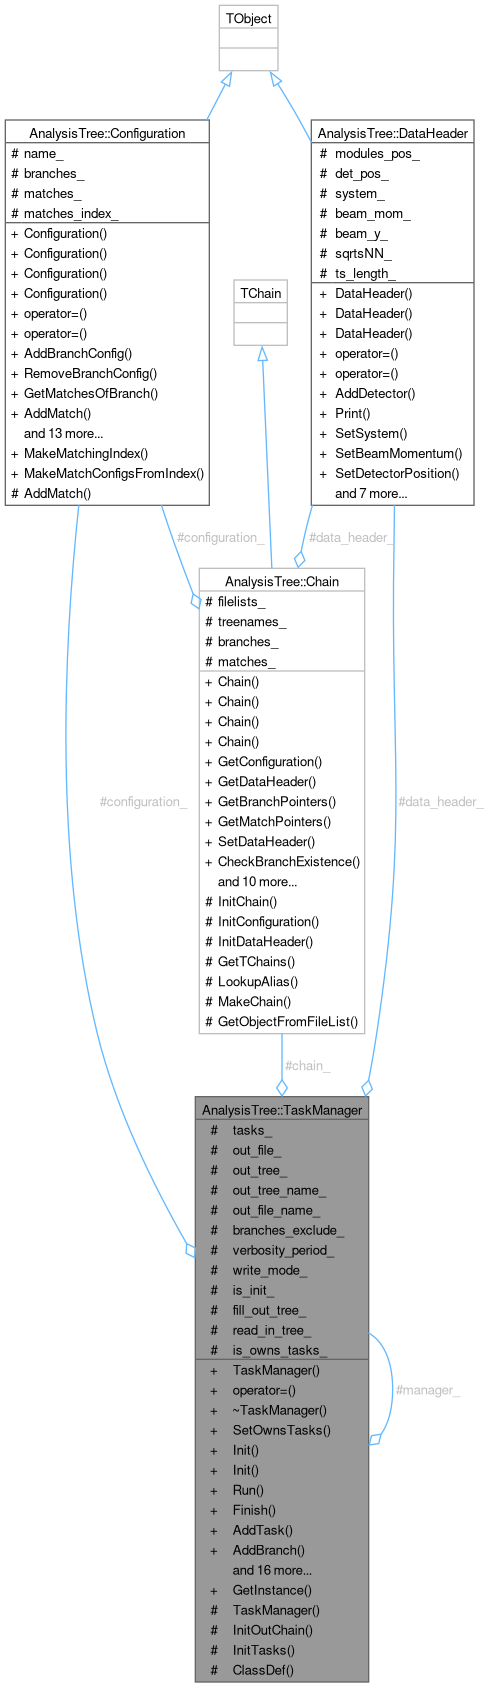
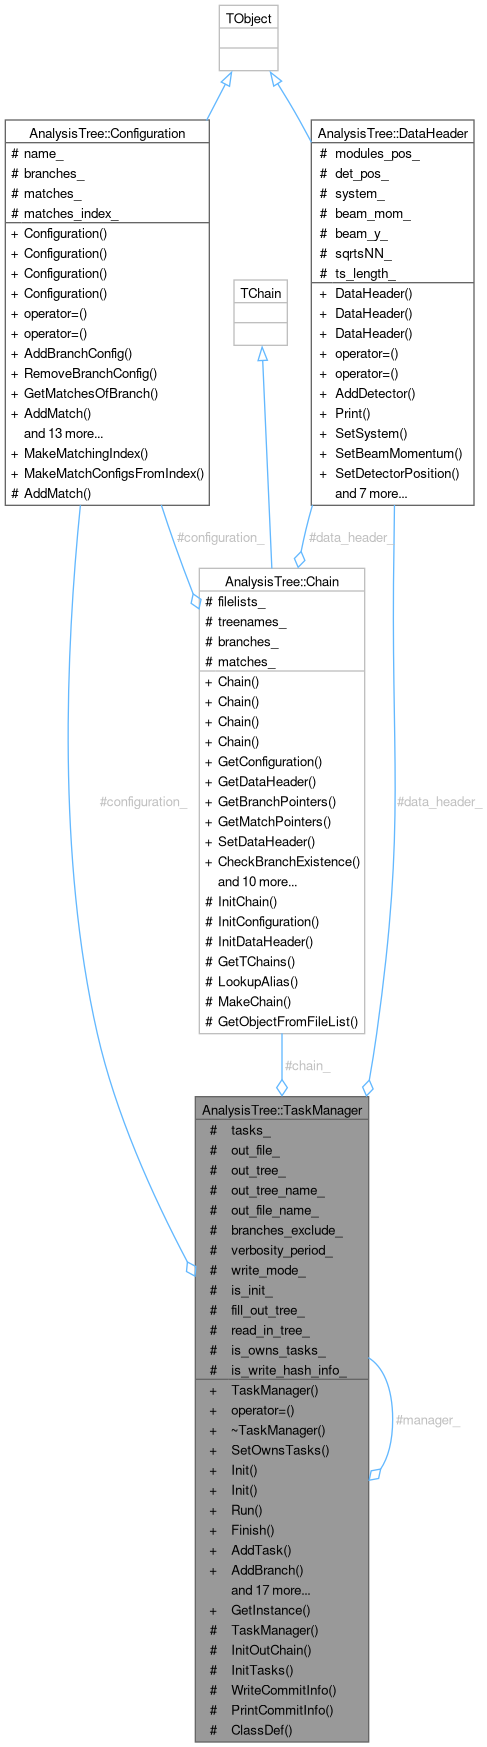
deploy: 76ee0b4aa726cfa2dfc453a1ede95081cfa58e4f

diff --git a/d5/d18/TaskManager_8hpp_source.html b/d5/d18/TaskManager_8hpp_source.html
@@ -241,45 +241,49 @@ $(function(){ initResizable(false); });
 <div class="line"><a id="l00166" name="l00166"></a><span class="lineno">  166</span>  <span class="keywordtype">void</span> SetWriteMode(eBranchWriteMode mode) { write_mode_ = mode; }</div>
 <div class="line"><a id="l00167" name="l00167"></a><span class="lineno">  167</span>  <span class="keywordtype">void</span> SetBranchesExclude(std::vector&lt;std::string&gt; brex) { branches_exclude_ = std::move(brex); }</div>
 <div class="line"><a id="l00168" name="l00168"></a><span class="lineno">  168</span>  <span class="keywordtype">void</span> SetVerbosityPeriod(<span class="keywordtype">int</span> value) { verbosity_period_ = value; }</div>
-<div class="line"><a id="l00169" name="l00169"></a><span class="lineno">  169</span> </div>
-<div class="line"><a id="l00170" name="l00170"></a><span class="lineno">  170</span>  <span class="keywordtype">void</span> ClearTasks() { tasks_.clear(); }</div>
-<div class="line"><a id="l00171" name="l00171"></a><span class="lineno">  171</span> </div>
-<div class="line"><a id="l00172" name="l00172"></a><span class="lineno">  172</span> <span class="keyword">protected</span>:</div>
-<div class="line"><a id="l00173" name="l00173"></a><span class="lineno">  173</span>  TaskManager() = <span class="keywordflow">default</span>;</div>
-<div class="line"><a id="l00174" name="l00174"></a><span class="lineno">  174</span>  <span class="keyword">static</span> TaskManager* manager_;</div>
-<div class="line"><a id="l00175" name="l00175"></a><span class="lineno">  175</span> </div>
-<div class="line"><a id="l00176" name="l00176"></a><span class="lineno">  176</span>  <span class="keywordtype">void</span> InitOutChain();</div>
-<div class="line"><a id="l00177" name="l00177"></a><span class="lineno">  177</span>  <span class="keywordtype">void</span> InitTasks();</div>
-<div class="line"><a id="l00178" name="l00178"></a><span class="lineno">  178</span> </div>
-<div class="line"><a id="l00179" name="l00179"></a><span class="lineno">  179</span>  <span class="comment">// input data members</span></div>
-<div class="line"><a id="l00180" name="l00180"></a><span class="lineno">  180</span>  Chain* chain_{<span class="keyword">nullptr</span>};</div>
-<div class="line"><a id="l00181" name="l00181"></a><span class="lineno">  181</span>  std::vector&lt;Task*&gt; tasks_{};</div>
-<div class="line"><a id="l00182" name="l00182"></a><span class="lineno">  182</span> </div>
-<div class="line"><a id="l00183" name="l00183"></a><span class="lineno">  183</span>  <span class="comment">// output data members</span></div>
-<div class="line"><a id="l00184" name="l00184"></a><span class="lineno">  184</span>  TFile* out_file_{<span class="keyword">nullptr</span>};</div>
-<div class="line"><a id="l00185" name="l00185"></a><span class="lineno">  185</span>  TTree* out_tree_{<span class="keyword">nullptr</span>};</div>
-<div class="line"><a id="l00186" name="l00186"></a><span class="lineno"><a class="line" href="../../d2/d83/classAnalysisTree_1_1TaskManager.html#a8b1f2c56f901b28b1000ede1cd687cb6">  186</a></span>  <a class="code hl_class" href="../../d8/dee/classAnalysisTree_1_1Configuration.html">Configuration</a>* <a class="code hl_variable" href="../../d2/d83/classAnalysisTree_1_1TaskManager.html#a8b1f2c56f901b28b1000ede1cd687cb6">configuration_</a>{<span class="keyword">nullptr</span>};</div>
-<div class="line"><a id="l00187" name="l00187"></a><span class="lineno"><a class="line" href="../../d2/d83/classAnalysisTree_1_1TaskManager.html#ab7540a6d2044b9ed1a58ddce8c5387d5">  187</a></span>  <a class="code hl_class" href="../../d8/d77/classAnalysisTree_1_1DataHeader.html">DataHeader</a>* <a class="code hl_variable" href="../../d2/d83/classAnalysisTree_1_1TaskManager.html#ab7540a6d2044b9ed1a58ddce8c5387d5">data_header_</a>{<span class="keyword">nullptr</span>};     </div>
-<div class="line"><a id="l00188" name="l00188"></a><span class="lineno">  188</span>  std::string out_tree_name_{<span class="stringliteral">&quot;aTree&quot;</span>};</div>
-<div class="line"><a id="l00189" name="l00189"></a><span class="lineno">  189</span>  std::string out_file_name_{<span class="stringliteral">&quot;analysis_tree.root&quot;</span>};</div>
-<div class="line"><a id="l00190" name="l00190"></a><span class="lineno">  190</span>  std::vector&lt;std::string&gt; branches_exclude_{};</div>
-<div class="line"><a id="l00191" name="l00191"></a><span class="lineno">  191</span> </div>
-<div class="line"><a id="l00192" name="l00192"></a><span class="lineno">  192</span>  <span class="keywordtype">int</span> verbosity_period_{-1};</div>
-<div class="line"><a id="l00193" name="l00193"></a><span class="lineno">  193</span> </div>
-<div class="line"><a id="l00194" name="l00194"></a><span class="lineno">  194</span>  <span class="comment">// configuration parameters</span></div>
-<div class="line"><a id="l00195" name="l00195"></a><span class="lineno">  195</span>  eBranchWriteMode write_mode_{eBranchWriteMode::kCreateNewTree};</div>
-<div class="line"><a id="l00196" name="l00196"></a><span class="lineno">  196</span>  <span class="keywordtype">bool</span> is_init_{<span class="keyword">false</span>};</div>
-<div class="line"><a id="l00197" name="l00197"></a><span class="lineno">  197</span>  <span class="keywordtype">bool</span> fill_out_tree_{<span class="keyword">false</span>};</div>
-<div class="line"><a id="l00198" name="l00198"></a><span class="lineno">  198</span>  <span class="keywordtype">bool</span> read_in_tree_{<span class="keyword">false</span>};</div>
-<div class="line"><a id="l00199" name="l00199"></a><span class="lineno">  199</span>  <span class="keywordtype">bool</span> is_owns_tasks_{<span class="keyword">true</span>};</div>
-<div class="line"><a id="l00200" name="l00200"></a><span class="lineno">  200</span> </div>
-<div class="line"><a id="l00201" name="l00201"></a><span class="lineno">  201</span>  ClassDef(TaskManager, 0);</div>
-<div class="line"><a id="l00202" name="l00202"></a><span class="lineno">  202</span>};</div>
+<div class="line"><a id="l00169" name="l00169"></a><span class="lineno">  169</span>  <span class="keywordtype">void</span> SetIsWriteHashInfo(<span class="keywordtype">bool</span> is=<span class="keyword">true</span>) { is_write_hash_info_ = is; }</div>
+<div class="line"><a id="l00170" name="l00170"></a><span class="lineno">  170</span> </div>
+<div class="line"><a id="l00171" name="l00171"></a><span class="lineno">  171</span>  <span class="keywordtype">void</span> ClearTasks() { tasks_.clear(); }</div>
+<div class="line"><a id="l00172" name="l00172"></a><span class="lineno">  172</span> </div>
+<div class="line"><a id="l00173" name="l00173"></a><span class="lineno">  173</span> <span class="keyword">protected</span>:</div>
+<div class="line"><a id="l00174" name="l00174"></a><span class="lineno">  174</span>  TaskManager() = <span class="keywordflow">default</span>;</div>
+<div class="line"><a id="l00175" name="l00175"></a><span class="lineno">  175</span>  <span class="keyword">static</span> TaskManager* manager_;</div>
+<div class="line"><a id="l00176" name="l00176"></a><span class="lineno">  176</span> </div>
+<div class="line"><a id="l00177" name="l00177"></a><span class="lineno">  177</span>  <span class="keywordtype">void</span> InitOutChain();</div>
+<div class="line"><a id="l00178" name="l00178"></a><span class="lineno">  178</span>  <span class="keywordtype">void</span> InitTasks();</div>
+<div class="line"><a id="l00179" name="l00179"></a><span class="lineno">  179</span>  <span class="keywordtype">void</span> WriteCommitInfo();</div>
+<div class="line"><a id="l00180" name="l00180"></a><span class="lineno">  180</span>  <span class="keywordtype">void</span> PrintCommitInfo();</div>
+<div class="line"><a id="l00181" name="l00181"></a><span class="lineno">  181</span> </div>
+<div class="line"><a id="l00182" name="l00182"></a><span class="lineno">  182</span>  <span class="comment">// input data members</span></div>
+<div class="line"><a id="l00183" name="l00183"></a><span class="lineno">  183</span>  Chain* chain_{<span class="keyword">nullptr</span>};</div>
+<div class="line"><a id="l00184" name="l00184"></a><span class="lineno">  184</span>  std::vector&lt;Task*&gt; tasks_{};</div>
+<div class="line"><a id="l00185" name="l00185"></a><span class="lineno">  185</span> </div>
+<div class="line"><a id="l00186" name="l00186"></a><span class="lineno">  186</span>  <span class="comment">// output data members</span></div>
+<div class="line"><a id="l00187" name="l00187"></a><span class="lineno">  187</span>  TFile* out_file_{<span class="keyword">nullptr</span>};</div>
+<div class="line"><a id="l00188" name="l00188"></a><span class="lineno">  188</span>  TTree* out_tree_{<span class="keyword">nullptr</span>};</div>
+<div class="line"><a id="l00189" name="l00189"></a><span class="lineno"><a class="line" href="../../d2/d83/classAnalysisTree_1_1TaskManager.html#a8b1f2c56f901b28b1000ede1cd687cb6">  189</a></span>  <a class="code hl_class" href="../../d8/dee/classAnalysisTree_1_1Configuration.html">Configuration</a>* <a class="code hl_variable" href="../../d2/d83/classAnalysisTree_1_1TaskManager.html#a8b1f2c56f901b28b1000ede1cd687cb6">configuration_</a>{<span class="keyword">nullptr</span>};</div>
+<div class="line"><a id="l00190" name="l00190"></a><span class="lineno"><a class="line" href="../../d2/d83/classAnalysisTree_1_1TaskManager.html#ab7540a6d2044b9ed1a58ddce8c5387d5">  190</a></span>  <a class="code hl_class" href="../../d8/d77/classAnalysisTree_1_1DataHeader.html">DataHeader</a>* <a class="code hl_variable" href="../../d2/d83/classAnalysisTree_1_1TaskManager.html#ab7540a6d2044b9ed1a58ddce8c5387d5">data_header_</a>{<span class="keyword">nullptr</span>};     </div>
+<div class="line"><a id="l00191" name="l00191"></a><span class="lineno">  191</span>  std::string out_tree_name_{<span class="stringliteral">&quot;aTree&quot;</span>};</div>
+<div class="line"><a id="l00192" name="l00192"></a><span class="lineno">  192</span>  std::string out_file_name_{<span class="stringliteral">&quot;analysis_tree.root&quot;</span>};</div>
+<div class="line"><a id="l00193" name="l00193"></a><span class="lineno">  193</span>  std::vector&lt;std::string&gt; branches_exclude_{};</div>
+<div class="line"><a id="l00194" name="l00194"></a><span class="lineno">  194</span> </div>
+<div class="line"><a id="l00195" name="l00195"></a><span class="lineno">  195</span>  <span class="keywordtype">int</span> verbosity_period_{-1};</div>
+<div class="line"><a id="l00196" name="l00196"></a><span class="lineno">  196</span> </div>
+<div class="line"><a id="l00197" name="l00197"></a><span class="lineno">  197</span>  <span class="comment">// configuration parameters</span></div>
+<div class="line"><a id="l00198" name="l00198"></a><span class="lineno">  198</span>  eBranchWriteMode write_mode_{eBranchWriteMode::kCreateNewTree};</div>
+<div class="line"><a id="l00199" name="l00199"></a><span class="lineno">  199</span>  <span class="keywordtype">bool</span> is_init_{<span class="keyword">false</span>};</div>
+<div class="line"><a id="l00200" name="l00200"></a><span class="lineno">  200</span>  <span class="keywordtype">bool</span> fill_out_tree_{<span class="keyword">false</span>};</div>
+<div class="line"><a id="l00201" name="l00201"></a><span class="lineno">  201</span>  <span class="keywordtype">bool</span> read_in_tree_{<span class="keyword">false</span>};</div>
+<div class="line"><a id="l00202" name="l00202"></a><span class="lineno">  202</span>  <span class="keywordtype">bool</span> is_owns_tasks_{<span class="keyword">true</span>};</div>
+<div class="line"><a id="l00203" name="l00203"></a><span class="lineno">  203</span>  <span class="keywordtype">bool</span> is_write_hash_info_{<span class="keyword">true</span>};</div>
+<div class="line"><a id="l00204" name="l00204"></a><span class="lineno">  204</span> </div>
+<div class="line"><a id="l00205" name="l00205"></a><span class="lineno">  205</span>  ClassDef(TaskManager, 0);</div>
+<div class="line"><a id="l00206" name="l00206"></a><span class="lineno">  206</span>};</div>
 </div>
-<div class="line"><a id="l00203" name="l00203"></a><span class="lineno">  203</span> </div>
-<div class="line"><a id="l00204" name="l00204"></a><span class="lineno">  204</span>};<span class="comment">// namespace AnalysisTree</span></div>
-<div class="line"><a id="l00205" name="l00205"></a><span class="lineno">  205</span> </div>
-<div class="line"><a id="l00206" name="l00206"></a><span class="lineno">  206</span><span class="preprocessor">#endif</span><span class="comment">//ANALYSISTREE_INFRA_TASKMANANGERNEW_HPP_</span></div>
+<div class="line"><a id="l00207" name="l00207"></a><span class="lineno">  207</span> </div>
+<div class="line"><a id="l00208" name="l00208"></a><span class="lineno">  208</span>};<span class="comment">// namespace AnalysisTree</span></div>
+<div class="line"><a id="l00209" name="l00209"></a><span class="lineno">  209</span> </div>
+<div class="line"><a id="l00210" name="l00210"></a><span class="lineno">  210</span><span class="preprocessor">#endif</span><span class="comment">//ANALYSISTREE_INFRA_TASKMANANGERNEW_HPP_</span></div>
 <div class="ttc" id="aclassAnalysisTree_1_1BranchConfig_html"><div class="ttname"><a href="../../d8/d4c/classAnalysisTree_1_1BranchConfig.html">AnalysisTree::BranchConfig</a></div><div class="ttdoc">A class to store configuration of the Container.</div><div class="ttdef"><b>Definition</b> BranchConfig.hpp:108</div></div>
 <div class="ttc" id="aclassAnalysisTree_1_1Branch_html"><div class="ttname"><a href="../../d2/d4d/classAnalysisTree_1_1Branch.html">AnalysisTree::Branch</a></div><div class="ttdef"><b>Definition</b> Branch.hpp:23</div></div>
 <div class="ttc" id="aclassAnalysisTree_1_1Configuration_html"><div class="ttname"><a href="../../d8/dee/classAnalysisTree_1_1Configuration.html">AnalysisTree::Configuration</a></div><div class="ttdoc">A class to store configuration of the whole AnalysisTree object.</div><div class="ttdef"><b>Definition</b> Configuration.hpp:58</div></div>
@@ -287,12 +291,12 @@ $(function(){ initResizable(false); });
 <div class="ttc" id="aclassAnalysisTree_1_1Detector_html"><div class="ttname"><a href="../../d4/da7/classAnalysisTree_1_1Detector.html">AnalysisTree::Detector</a></div><div class="ttdef"><b>Definition</b> Detector.hpp:21</div></div>
 <div class="ttc" id="aclassAnalysisTree_1_1Matching_html"><div class="ttname"><a href="../../d8/d42/classAnalysisTree_1_1Matching.html">AnalysisTree::Matching</a></div><div class="ttdef"><b>Definition</b> Matching.hpp:17</div></div>
 <div class="ttc" id="aclassAnalysisTree_1_1TaskManager_html"><div class="ttname"><a href="../../d2/d83/classAnalysisTree_1_1TaskManager.html">AnalysisTree::TaskManager</a></div><div class="ttdef"><b>Definition</b> TaskManager.hpp:32</div></div>
-<div class="ttc" id="aclassAnalysisTree_1_1TaskManager_html_a11a064f466596832a85d7a0fcf95417f"><div class="ttname"><a href="../../d2/d83/classAnalysisTree_1_1TaskManager.html#a11a064f466596832a85d7a0fcf95417f">AnalysisTree::TaskManager::Init</a></div><div class="ttdeci">virtual void Init()</div><div class="ttdef"><b>Definition</b> TaskManager.cpp:50</div></div>
+<div class="ttc" id="aclassAnalysisTree_1_1TaskManager_html_a11a064f466596832a85d7a0fcf95417f"><div class="ttname"><a href="../../d2/d83/classAnalysisTree_1_1TaskManager.html#a11a064f466596832a85d7a0fcf95417f">AnalysisTree::TaskManager::Init</a></div><div class="ttdeci">virtual void Init()</div><div class="ttdef"><b>Definition</b> TaskManager.cpp:52</div></div>
 <div class="ttc" id="aclassAnalysisTree_1_1TaskManager_html_a3884e7be7b33f2efe8403a55fd08e617"><div class="ttname"><a href="../../d2/d83/classAnalysisTree_1_1TaskManager.html#a3884e7be7b33f2efe8403a55fd08e617">AnalysisTree::TaskManager::SetOwnsTasks</a></div><div class="ttdeci">void SetOwnsTasks(bool owns_flag=true)</div><div class="ttdoc">If TaskManager owns its tasks, they will be deleted on TaskManager' destruction.</div><div class="ttdef"><b>Definition</b> TaskManager.hpp:45</div></div>
 <div class="ttc" id="aclassAnalysisTree_1_1TaskManager_html_a58dac689de25cdb7b5757ae629677507"><div class="ttname"><a href="../../d2/d83/classAnalysisTree_1_1TaskManager.html#a58dac689de25cdb7b5757ae629677507">AnalysisTree::TaskManager::AddBranch</a></div><div class="ttdeci">void AddBranch(BranchPtr *&amp;ptr, const BranchConfig &amp;config)</div><div class="ttdef"><b>Definition</b> TaskManager.hpp:69</div></div>
-<div class="ttc" id="aclassAnalysisTree_1_1TaskManager_html_a8b1f2c56f901b28b1000ede1cd687cb6"><div class="ttname"><a href="../../d2/d83/classAnalysisTree_1_1TaskManager.html#a8b1f2c56f901b28b1000ede1cd687cb6">AnalysisTree::TaskManager::configuration_</a></div><div class="ttdeci">Configuration * configuration_</div><div class="ttdoc">output</div><div class="ttdef"><b>Definition</b> TaskManager.hpp:186</div></div>
+<div class="ttc" id="aclassAnalysisTree_1_1TaskManager_html_a8b1f2c56f901b28b1000ede1cd687cb6"><div class="ttname"><a href="../../d2/d83/classAnalysisTree_1_1TaskManager.html#a8b1f2c56f901b28b1000ede1cd687cb6">AnalysisTree::TaskManager::configuration_</a></div><div class="ttdeci">Configuration * configuration_</div><div class="ttdoc">output</div><div class="ttdef"><b>Definition</b> TaskManager.hpp:189</div></div>
 <div class="ttc" id="aclassAnalysisTree_1_1TaskManager_html_aa4ab4ad6b152b4d3c02337fe1b00801e"><div class="ttname"><a href="../../d2/d83/classAnalysisTree_1_1TaskManager.html#aa4ab4ad6b152b4d3c02337fe1b00801e">AnalysisTree::TaskManager::AddMatching</a></div><div class="ttdeci">void AddMatching(const std::string &amp;br1, const std::string &amp;br2, Matching *&amp;match)</div><div class="ttdef"><b>Definition</b> TaskManager.hpp:119</div></div>
-<div class="ttc" id="aclassAnalysisTree_1_1TaskManager_html_ab7540a6d2044b9ed1a58ddce8c5387d5"><div class="ttname"><a href="../../d2/d83/classAnalysisTree_1_1TaskManager.html#ab7540a6d2044b9ed1a58ddce8c5387d5">AnalysisTree::TaskManager::data_header_</a></div><div class="ttdeci">DataHeader * data_header_</div><div class="ttdoc">output</div><div class="ttdef"><b>Definition</b> TaskManager.hpp:187</div></div>
+<div class="ttc" id="aclassAnalysisTree_1_1TaskManager_html_ab7540a6d2044b9ed1a58ddce8c5387d5"><div class="ttname"><a href="../../d2/d83/classAnalysisTree_1_1TaskManager.html#ab7540a6d2044b9ed1a58ddce8c5387d5">AnalysisTree::TaskManager::data_header_</a></div><div class="ttdeci">DataHeader * data_header_</div><div class="ttdoc">output</div><div class="ttdef"><b>Definition</b> TaskManager.hpp:190</div></div>
 <div class="ttc" id="aclassAnalysisTree_1_1TaskManager_html_ab855b806c375c592324e23fe756957d1"><div class="ttname"><a href="../../d2/d83/classAnalysisTree_1_1TaskManager.html#ab855b806c375c592324e23fe756957d1">AnalysisTree::TaskManager::GetInstance</a></div><div class="ttdeci">static TaskManager * GetInstance()</div><div class="ttdef"><b>Definition</b> TaskManager.cpp:12</div></div>
 <div class="ttc" id="aclassAnalysisTree_1_1Task_html"><div class="ttname"><a href="../../d8/dcf/classAnalysisTree_1_1Task.html">AnalysisTree::Task</a></div><div class="ttdef"><b>Definition</b> Task.hpp:25</div></div>
 <div class="ttc" id="anamespaceAnalysisTree_html"><div class="ttname"><a href="../../d9/d26/namespaceAnalysisTree.html">AnalysisTree</a></div><div class="ttdoc">Cuts keep list of SimpleCuts. Logical AND is applied for all SimpleCut in the Cuts object.</div><div class="ttdef"><b>Definition</b> BranchConfig.cpp:10</div></div>

diff --git a/dc/dd7/classAnalysisTree_1_1TaskManager-members.html b/dc/dd7/classAnalysisTree_1_1TaskManager-members.html
@@ -120,26 +120,30 @@ $(function(){ initResizable(false); });
   <tr bgcolor="#f0f0f0" class="odd"><td class="entry"><b>InitTasks</b>() (defined in <a class="el" href="../../d2/d83/classAnalysisTree_1_1TaskManager.html">AnalysisTree::TaskManager</a>)</td><td class="entry"><a class="el" href="../../d2/d83/classAnalysisTree_1_1TaskManager.html">AnalysisTree::TaskManager</a></td><td class="entry"><span class="mlabel">protected</span></td></tr>
   <tr bgcolor="#f0f0f0" class="even"><td class="entry"><b>is_init_</b> (defined in <a class="el" href="../../d2/d83/classAnalysisTree_1_1TaskManager.html">AnalysisTree::TaskManager</a>)</td><td class="entry"><a class="el" href="../../d2/d83/classAnalysisTree_1_1TaskManager.html">AnalysisTree::TaskManager</a></td><td class="entry"><span class="mlabel">protected</span></td></tr>
   <tr bgcolor="#f0f0f0" class="odd"><td class="entry"><b>is_owns_tasks_</b> (defined in <a class="el" href="../../d2/d83/classAnalysisTree_1_1TaskManager.html">AnalysisTree::TaskManager</a>)</td><td class="entry"><a class="el" href="../../d2/d83/classAnalysisTree_1_1TaskManager.html">AnalysisTree::TaskManager</a></td><td class="entry"><span class="mlabel">protected</span></td></tr>
-  <tr bgcolor="#f0f0f0" class="even"><td class="entry"><b>manager_</b> (defined in <a class="el" href="../../d2/d83/classAnalysisTree_1_1TaskManager.html">AnalysisTree::TaskManager</a>)</td><td class="entry"><a class="el" href="../../d2/d83/classAnalysisTree_1_1TaskManager.html">AnalysisTree::TaskManager</a></td><td class="entry"><span class="mlabel">protected</span><span class="mlabel">static</span></td></tr>
-  <tr bgcolor="#f0f0f0" class="odd"><td class="entry"><b>operator=</b>(const TaskManager &amp;)=delete (defined in <a class="el" href="../../d2/d83/classAnalysisTree_1_1TaskManager.html">AnalysisTree::TaskManager</a>)</td><td class="entry"><a class="el" href="../../d2/d83/classAnalysisTree_1_1TaskManager.html">AnalysisTree::TaskManager</a></td><td class="entry"></td></tr>
-  <tr bgcolor="#f0f0f0" class="even"><td class="entry"><b>out_file_</b> (defined in <a class="el" href="../../d2/d83/classAnalysisTree_1_1TaskManager.html">AnalysisTree::TaskManager</a>)</td><td class="entry"><a class="el" href="../../d2/d83/classAnalysisTree_1_1TaskManager.html">AnalysisTree::TaskManager</a></td><td class="entry"><span class="mlabel">protected</span></td></tr>
-  <tr bgcolor="#f0f0f0" class="odd"><td class="entry"><b>out_file_name_</b> (defined in <a class="el" href="../../d2/d83/classAnalysisTree_1_1TaskManager.html">AnalysisTree::TaskManager</a>)</td><td class="entry"><a class="el" href="../../d2/d83/classAnalysisTree_1_1TaskManager.html">AnalysisTree::TaskManager</a></td><td class="entry"><span class="mlabel">protected</span></td></tr>
-  <tr bgcolor="#f0f0f0" class="even"><td class="entry"><b>out_tree_</b> (defined in <a class="el" href="../../d2/d83/classAnalysisTree_1_1TaskManager.html">AnalysisTree::TaskManager</a>)</td><td class="entry"><a class="el" href="../../d2/d83/classAnalysisTree_1_1TaskManager.html">AnalysisTree::TaskManager</a></td><td class="entry"><span class="mlabel">protected</span></td></tr>
-  <tr bgcolor="#f0f0f0" class="odd"><td class="entry"><b>out_tree_name_</b> (defined in <a class="el" href="../../d2/d83/classAnalysisTree_1_1TaskManager.html">AnalysisTree::TaskManager</a>)</td><td class="entry"><a class="el" href="../../d2/d83/classAnalysisTree_1_1TaskManager.html">AnalysisTree::TaskManager</a></td><td class="entry"><span class="mlabel">protected</span></td></tr>
+  <tr bgcolor="#f0f0f0" class="even"><td class="entry"><b>is_write_hash_info_</b> (defined in <a class="el" href="../../d2/d83/classAnalysisTree_1_1TaskManager.html">AnalysisTree::TaskManager</a>)</td><td class="entry"><a class="el" href="../../d2/d83/classAnalysisTree_1_1TaskManager.html">AnalysisTree::TaskManager</a></td><td class="entry"><span class="mlabel">protected</span></td></tr>
+  <tr bgcolor="#f0f0f0" class="odd"><td class="entry"><b>manager_</b> (defined in <a class="el" href="../../d2/d83/classAnalysisTree_1_1TaskManager.html">AnalysisTree::TaskManager</a>)</td><td class="entry"><a class="el" href="../../d2/d83/classAnalysisTree_1_1TaskManager.html">AnalysisTree::TaskManager</a></td><td class="entry"><span class="mlabel">protected</span><span class="mlabel">static</span></td></tr>
+  <tr bgcolor="#f0f0f0" class="even"><td class="entry"><b>operator=</b>(const TaskManager &amp;)=delete (defined in <a class="el" href="../../d2/d83/classAnalysisTree_1_1TaskManager.html">AnalysisTree::TaskManager</a>)</td><td class="entry"><a class="el" href="../../d2/d83/classAnalysisTree_1_1TaskManager.html">AnalysisTree::TaskManager</a></td><td class="entry"></td></tr>
+  <tr bgcolor="#f0f0f0" class="odd"><td class="entry"><b>out_file_</b> (defined in <a class="el" href="../../d2/d83/classAnalysisTree_1_1TaskManager.html">AnalysisTree::TaskManager</a>)</td><td class="entry"><a class="el" href="../../d2/d83/classAnalysisTree_1_1TaskManager.html">AnalysisTree::TaskManager</a></td><td class="entry"><span class="mlabel">protected</span></td></tr>
+  <tr bgcolor="#f0f0f0" class="even"><td class="entry"><b>out_file_name_</b> (defined in <a class="el" href="../../d2/d83/classAnalysisTree_1_1TaskManager.html">AnalysisTree::TaskManager</a>)</td><td class="entry"><a class="el" href="../../d2/d83/classAnalysisTree_1_1TaskManager.html">AnalysisTree::TaskManager</a></td><td class="entry"><span class="mlabel">protected</span></td></tr>
+  <tr bgcolor="#f0f0f0" class="odd"><td class="entry"><b>out_tree_</b> (defined in <a class="el" href="../../d2/d83/classAnalysisTree_1_1TaskManager.html">AnalysisTree::TaskManager</a>)</td><td class="entry"><a class="el" href="../../d2/d83/classAnalysisTree_1_1TaskManager.html">AnalysisTree::TaskManager</a></td><td class="entry"><span class="mlabel">protected</span></td></tr>
+  <tr bgcolor="#f0f0f0" class="even"><td class="entry"><b>out_tree_name_</b> (defined in <a class="el" href="../../d2/d83/classAnalysisTree_1_1TaskManager.html">AnalysisTree::TaskManager</a>)</td><td class="entry"><a class="el" href="../../d2/d83/classAnalysisTree_1_1TaskManager.html">AnalysisTree::TaskManager</a></td><td class="entry"><span class="mlabel">protected</span></td></tr>
+  <tr bgcolor="#f0f0f0" class="odd"><td class="entry"><b>PrintCommitInfo</b>() (defined in <a class="el" href="../../d2/d83/classAnalysisTree_1_1TaskManager.html">AnalysisTree::TaskManager</a>)</td><td class="entry"><a class="el" href="../../d2/d83/classAnalysisTree_1_1TaskManager.html">AnalysisTree::TaskManager</a></td><td class="entry"><span class="mlabel">protected</span></td></tr>
   <tr bgcolor="#f0f0f0" class="even"><td class="entry"><b>read_in_tree_</b> (defined in <a class="el" href="../../d2/d83/classAnalysisTree_1_1TaskManager.html">AnalysisTree::TaskManager</a>)</td><td class="entry"><a class="el" href="../../d2/d83/classAnalysisTree_1_1TaskManager.html">AnalysisTree::TaskManager</a></td><td class="entry"><span class="mlabel">protected</span></td></tr>
   <tr bgcolor="#f0f0f0" class="odd"><td class="entry"><b>Run</b>(long long nEvents=-1) (defined in <a class="el" href="../../d2/d83/classAnalysisTree_1_1TaskManager.html">AnalysisTree::TaskManager</a>)</td><td class="entry"><a class="el" href="../../d2/d83/classAnalysisTree_1_1TaskManager.html">AnalysisTree::TaskManager</a></td><td class="entry"><span class="mlabel">virtual</span></td></tr>
   <tr bgcolor="#f0f0f0" class="even"><td class="entry"><b>SetBranchesExclude</b>(std::vector&lt; std::string &gt; brex) (defined in <a class="el" href="../../d2/d83/classAnalysisTree_1_1TaskManager.html">AnalysisTree::TaskManager</a>)</td><td class="entry"><a class="el" href="../../d2/d83/classAnalysisTree_1_1TaskManager.html">AnalysisTree::TaskManager</a></td><td class="entry"><span class="mlabel">inline</span></td></tr>
-  <tr bgcolor="#f0f0f0" class="odd"><td class="entry"><b>SetOutputDataHeader</b>(DataHeader *dh) (defined in <a class="el" href="../../d2/d83/classAnalysisTree_1_1TaskManager.html">AnalysisTree::TaskManager</a>)</td><td class="entry"><a class="el" href="../../d2/d83/classAnalysisTree_1_1TaskManager.html">AnalysisTree::TaskManager</a></td><td class="entry"><span class="mlabel">inline</span></td></tr>
-  <tr bgcolor="#f0f0f0" class="even"><td class="entry"><b>SetOutputName</b>(std::string file, std::string tree=&quot;aTree&quot;) (defined in <a class="el" href="../../d2/d83/classAnalysisTree_1_1TaskManager.html">AnalysisTree::TaskManager</a>)</td><td class="entry"><a class="el" href="../../d2/d83/classAnalysisTree_1_1TaskManager.html">AnalysisTree::TaskManager</a></td><td class="entry"><span class="mlabel">inline</span></td></tr>
-  <tr class="odd"><td class="entry"><a class="el" href="../../d2/d83/classAnalysisTree_1_1TaskManager.html#a3884e7be7b33f2efe8403a55fd08e617">SetOwnsTasks</a>(bool owns_flag=true)</td><td class="entry"><a class="el" href="../../d2/d83/classAnalysisTree_1_1TaskManager.html">AnalysisTree::TaskManager</a></td><td class="entry"><span class="mlabel">inline</span></td></tr>
-  <tr bgcolor="#f0f0f0" class="even"><td class="entry"><b>SetVerbosityPeriod</b>(int value) (defined in <a class="el" href="../../d2/d83/classAnalysisTree_1_1TaskManager.html">AnalysisTree::TaskManager</a>)</td><td class="entry"><a class="el" href="../../d2/d83/classAnalysisTree_1_1TaskManager.html">AnalysisTree::TaskManager</a></td><td class="entry"><span class="mlabel">inline</span></td></tr>
-  <tr bgcolor="#f0f0f0" class="odd"><td class="entry"><b>SetWriteMode</b>(eBranchWriteMode mode) (defined in <a class="el" href="../../d2/d83/classAnalysisTree_1_1TaskManager.html">AnalysisTree::TaskManager</a>)</td><td class="entry"><a class="el" href="../../d2/d83/classAnalysisTree_1_1TaskManager.html">AnalysisTree::TaskManager</a></td><td class="entry"><span class="mlabel">inline</span></td></tr>
-  <tr bgcolor="#f0f0f0" class="even"><td class="entry"><b>TaskManager</b>(TaskManager &amp;other)=delete (defined in <a class="el" href="../../d2/d83/classAnalysisTree_1_1TaskManager.html">AnalysisTree::TaskManager</a>)</td><td class="entry"><a class="el" href="../../d2/d83/classAnalysisTree_1_1TaskManager.html">AnalysisTree::TaskManager</a></td><td class="entry"></td></tr>
-  <tr bgcolor="#f0f0f0" class="odd"><td class="entry"><b>TaskManager</b>()=default (defined in <a class="el" href="../../d2/d83/classAnalysisTree_1_1TaskManager.html">AnalysisTree::TaskManager</a>)</td><td class="entry"><a class="el" href="../../d2/d83/classAnalysisTree_1_1TaskManager.html">AnalysisTree::TaskManager</a></td><td class="entry"><span class="mlabel">protected</span></td></tr>
-  <tr bgcolor="#f0f0f0" class="even"><td class="entry"><b>Tasks</b>() (defined in <a class="el" href="../../d2/d83/classAnalysisTree_1_1TaskManager.html">AnalysisTree::TaskManager</a>)</td><td class="entry"><a class="el" href="../../d2/d83/classAnalysisTree_1_1TaskManager.html">AnalysisTree::TaskManager</a></td><td class="entry"><span class="mlabel">inline</span></td></tr>
-  <tr bgcolor="#f0f0f0" class="odd"><td class="entry"><b>tasks_</b> (defined in <a class="el" href="../../d2/d83/classAnalysisTree_1_1TaskManager.html">AnalysisTree::TaskManager</a>)</td><td class="entry"><a class="el" href="../../d2/d83/classAnalysisTree_1_1TaskManager.html">AnalysisTree::TaskManager</a></td><td class="entry"><span class="mlabel">protected</span></td></tr>
-  <tr bgcolor="#f0f0f0" class="even"><td class="entry"><b>verbosity_period_</b> (defined in <a class="el" href="../../d2/d83/classAnalysisTree_1_1TaskManager.html">AnalysisTree::TaskManager</a>)</td><td class="entry"><a class="el" href="../../d2/d83/classAnalysisTree_1_1TaskManager.html">AnalysisTree::TaskManager</a></td><td class="entry"><span class="mlabel">protected</span></td></tr>
-  <tr bgcolor="#f0f0f0" class="odd"><td class="entry"><b>write_mode_</b> (defined in <a class="el" href="../../d2/d83/classAnalysisTree_1_1TaskManager.html">AnalysisTree::TaskManager</a>)</td><td class="entry"><a class="el" href="../../d2/d83/classAnalysisTree_1_1TaskManager.html">AnalysisTree::TaskManager</a></td><td class="entry"><span class="mlabel">protected</span></td></tr>
+  <tr bgcolor="#f0f0f0" class="odd"><td class="entry"><b>SetIsWriteHashInfo</b>(bool is=true) (defined in <a class="el" href="../../d2/d83/classAnalysisTree_1_1TaskManager.html">AnalysisTree::TaskManager</a>)</td><td class="entry"><a class="el" href="../../d2/d83/classAnalysisTree_1_1TaskManager.html">AnalysisTree::TaskManager</a></td><td class="entry"><span class="mlabel">inline</span></td></tr>
+  <tr bgcolor="#f0f0f0" class="even"><td class="entry"><b>SetOutputDataHeader</b>(DataHeader *dh) (defined in <a class="el" href="../../d2/d83/classAnalysisTree_1_1TaskManager.html">AnalysisTree::TaskManager</a>)</td><td class="entry"><a class="el" href="../../d2/d83/classAnalysisTree_1_1TaskManager.html">AnalysisTree::TaskManager</a></td><td class="entry"><span class="mlabel">inline</span></td></tr>
+  <tr bgcolor="#f0f0f0" class="odd"><td class="entry"><b>SetOutputName</b>(std::string file, std::string tree=&quot;aTree&quot;) (defined in <a class="el" href="../../d2/d83/classAnalysisTree_1_1TaskManager.html">AnalysisTree::TaskManager</a>)</td><td class="entry"><a class="el" href="../../d2/d83/classAnalysisTree_1_1TaskManager.html">AnalysisTree::TaskManager</a></td><td class="entry"><span class="mlabel">inline</span></td></tr>
+  <tr class="even"><td class="entry"><a class="el" href="../../d2/d83/classAnalysisTree_1_1TaskManager.html#a3884e7be7b33f2efe8403a55fd08e617">SetOwnsTasks</a>(bool owns_flag=true)</td><td class="entry"><a class="el" href="../../d2/d83/classAnalysisTree_1_1TaskManager.html">AnalysisTree::TaskManager</a></td><td class="entry"><span class="mlabel">inline</span></td></tr>
+  <tr bgcolor="#f0f0f0" class="odd"><td class="entry"><b>SetVerbosityPeriod</b>(int value) (defined in <a class="el" href="../../d2/d83/classAnalysisTree_1_1TaskManager.html">AnalysisTree::TaskManager</a>)</td><td class="entry"><a class="el" href="../../d2/d83/classAnalysisTree_1_1TaskManager.html">AnalysisTree::TaskManager</a></td><td class="entry"><span class="mlabel">inline</span></td></tr>
+  <tr bgcolor="#f0f0f0" class="even"><td class="entry"><b>SetWriteMode</b>(eBranchWriteMode mode) (defined in <a class="el" href="../../d2/d83/classAnalysisTree_1_1TaskManager.html">AnalysisTree::TaskManager</a>)</td><td class="entry"><a class="el" href="../../d2/d83/classAnalysisTree_1_1TaskManager.html">AnalysisTree::TaskManager</a></td><td class="entry"><span class="mlabel">inline</span></td></tr>
+  <tr bgcolor="#f0f0f0" class="odd"><td class="entry"><b>TaskManager</b>(TaskManager &amp;other)=delete (defined in <a class="el" href="../../d2/d83/classAnalysisTree_1_1TaskManager.html">AnalysisTree::TaskManager</a>)</td><td class="entry"><a class="el" href="../../d2/d83/classAnalysisTree_1_1TaskManager.html">AnalysisTree::TaskManager</a></td><td class="entry"></td></tr>
+  <tr bgcolor="#f0f0f0" class="even"><td class="entry"><b>TaskManager</b>()=default (defined in <a class="el" href="../../d2/d83/classAnalysisTree_1_1TaskManager.html">AnalysisTree::TaskManager</a>)</td><td class="entry"><a class="el" href="../../d2/d83/classAnalysisTree_1_1TaskManager.html">AnalysisTree::TaskManager</a></td><td class="entry"><span class="mlabel">protected</span></td></tr>
+  <tr bgcolor="#f0f0f0" class="odd"><td class="entry"><b>Tasks</b>() (defined in <a class="el" href="../../d2/d83/classAnalysisTree_1_1TaskManager.html">AnalysisTree::TaskManager</a>)</td><td class="entry"><a class="el" href="../../d2/d83/classAnalysisTree_1_1TaskManager.html">AnalysisTree::TaskManager</a></td><td class="entry"><span class="mlabel">inline</span></td></tr>
+  <tr bgcolor="#f0f0f0" class="even"><td class="entry"><b>tasks_</b> (defined in <a class="el" href="../../d2/d83/classAnalysisTree_1_1TaskManager.html">AnalysisTree::TaskManager</a>)</td><td class="entry"><a class="el" href="../../d2/d83/classAnalysisTree_1_1TaskManager.html">AnalysisTree::TaskManager</a></td><td class="entry"><span class="mlabel">protected</span></td></tr>
+  <tr bgcolor="#f0f0f0" class="odd"><td class="entry"><b>verbosity_period_</b> (defined in <a class="el" href="../../d2/d83/classAnalysisTree_1_1TaskManager.html">AnalysisTree::TaskManager</a>)</td><td class="entry"><a class="el" href="../../d2/d83/classAnalysisTree_1_1TaskManager.html">AnalysisTree::TaskManager</a></td><td class="entry"><span class="mlabel">protected</span></td></tr>
+  <tr bgcolor="#f0f0f0" class="even"><td class="entry"><b>write_mode_</b> (defined in <a class="el" href="../../d2/d83/classAnalysisTree_1_1TaskManager.html">AnalysisTree::TaskManager</a>)</td><td class="entry"><a class="el" href="../../d2/d83/classAnalysisTree_1_1TaskManager.html">AnalysisTree::TaskManager</a></td><td class="entry"><span class="mlabel">protected</span></td></tr>
+  <tr bgcolor="#f0f0f0" class="odd"><td class="entry"><b>WriteCommitInfo</b>() (defined in <a class="el" href="../../d2/d83/classAnalysisTree_1_1TaskManager.html">AnalysisTree::TaskManager</a>)</td><td class="entry"><a class="el" href="../../d2/d83/classAnalysisTree_1_1TaskManager.html">AnalysisTree::TaskManager</a></td><td class="entry"><span class="mlabel">protected</span></td></tr>
   <tr bgcolor="#f0f0f0" class="even"><td class="entry"><b>~TaskManager</b>() (defined in <a class="el" href="../../d2/d83/classAnalysisTree_1_1TaskManager.html">AnalysisTree::TaskManager</a>)</td><td class="entry"><a class="el" href="../../d2/d83/classAnalysisTree_1_1TaskManager.html">AnalysisTree::TaskManager</a></td><td class="entry"><span class="mlabel">virtual</span></td></tr>
 </table></div><!-- contents -->
 <!-- start footer part -->

diff --git a/d2/d83/classAnalysisTree_1_1TaskManager.html b/d2/d83/classAnalysisTree_1_1TaskManager.html
@@ -103,20 +103,20 @@ Collaboration diagram for AnalysisTree::TaskManager:</div>
 <div class="dyncontent">
 <div class="center"><img src="../../d7/d18/classAnalysisTree_1_1TaskManager__coll__graph.png" border="0" usemap="#aAnalysisTree_1_1TaskManager_coll__map" alt="Collaboration graph"/></div>
 <map name="aAnalysisTree_1_1TaskManager_coll__map" id="aAnalysisTree_1_1TaskManager_coll__map">
-<area shape="rect" title=" " alt="" coords="195,1097,369,1682"/>
-<area shape="poly" title=" " alt="" coords="370,1331,380,1339,388,1352,394,1369,395,1389,392,1416,384,1435,379,1433,387,1415,390,1389,388,1370,383,1354,376,1343,367,1335"/>
+<area shape="rect" title=" " alt="" coords="195,1097,369,1742"/>
+<area shape="poly" title=" " alt="" coords="370,1356,380,1365,388,1378,394,1397,395,1419,392,1449,383,1470,378,1468,387,1448,390,1419,388,1398,383,1381,376,1368,367,1360"/>
 <area shape="rect" href="../../d7/d86/classAnalysisTree_1_1Chain.html" title=" " alt="" coords="199,568,365,1034"/>
 <area shape="poly" title=" " alt="" coords="285,1033,285,1080,279,1080,279,1033"/>
 <area shape="rect" title=" " alt="" coords="234,280,287,345"/>
 <area shape="poly" title=" " alt="" coords="265,360,275,568,269,569,260,361"/>
 <area shape="rect" href="../../d8/dee/classAnalysisTree_1_1Configuration.html" title="A class to store configuration of the whole AnalysisTree object." alt="" coords="5,120,209,505"/>
-<area shape="poly" title=" " alt="" coords="81,505,72,625,69,759,77,898,86,966,100,1033,116,1088,138,1142,189,1243,184,1245,133,1144,111,1090,95,1034,81,967,71,898,63,759,66,625,76,505"/>
+<area shape="poly" title=" " alt="" coords="83,505,74,625,71,758,78,897,87,966,100,1033,117,1092,138,1151,190,1261,185,1263,133,1153,111,1094,95,1034,82,967,73,898,66,759,68,625,78,505"/>
 <area shape="poly" title=" " alt="" coords="164,504,177,543,196,593,191,595,172,545,159,506"/>
 <area shape="rect" title=" " alt="" coords="219,5,278,71"/>
 <area shape="poly" title=" " alt="" coords="228,85,209,122,204,119,223,83"/>
 <area shape="rect" href="../../d8/d77/classAnalysisTree_1_1DataHeader.html" title=" " alt="" coords="311,120,474,505"/>
 <area shape="poly" title=" " alt="" coords="280,82,302,119,314,141,309,144,297,121,275,85"/>
-<area shape="poly" title=" " alt="" coords="397,505,397,544,397,682,399,790,395,897,379,1034,371,1081,366,1080,374,1033,390,897,393,790,392,682,391,544,392,505"/>
+<area shape="poly" title=" " alt="" coords="397,505,397,544,398,790,394,897,379,1034,372,1080,367,1080,374,1033,389,897,392,790,391,544,392,505"/>
 <area shape="poly" title=" " alt="" coords="315,506,309,530,304,552,298,551,303,529,310,504"/>
 </map>
 </div>
@@ -192,6 +192,9 @@ void&#160;</td><td class="memItemRight" valign="bottom"><b>SetBranchesExclude</b
 <tr class="memitem:a45b6c8ab9a126632fbeabef0f6f142e8" id="r_a45b6c8ab9a126632fbeabef0f6f142e8"><td class="memItemLeft" align="right" valign="top"><a id="a45b6c8ab9a126632fbeabef0f6f142e8" name="a45b6c8ab9a126632fbeabef0f6f142e8"></a>
 void&#160;</td><td class="memItemRight" valign="bottom"><b>SetVerbosityPeriod</b> (int value)</td></tr>
 <tr class="separator:a45b6c8ab9a126632fbeabef0f6f142e8"><td class="memSeparator" colspan="2">&#160;</td></tr>
+<tr class="memitem:ad110998732642ab30873745205ff59f1" id="r_ad110998732642ab30873745205ff59f1"><td class="memItemLeft" align="right" valign="top"><a id="ad110998732642ab30873745205ff59f1" name="ad110998732642ab30873745205ff59f1"></a>
+void&#160;</td><td class="memItemRight" valign="bottom"><b>SetIsWriteHashInfo</b> (bool is=true)</td></tr>
+<tr class="separator:ad110998732642ab30873745205ff59f1"><td class="memSeparator" colspan="2">&#160;</td></tr>
 <tr class="memitem:a3b845766f0dfa3d59de8dc99d8876f08" id="r_a3b845766f0dfa3d59de8dc99d8876f08"><td class="memItemLeft" align="right" valign="top"><a id="a3b845766f0dfa3d59de8dc99d8876f08" name="a3b845766f0dfa3d59de8dc99d8876f08"></a>
 void&#160;</td><td class="memItemRight" valign="bottom"><b>ClearTasks</b> ()</td></tr>
 <tr class="separator:a3b845766f0dfa3d59de8dc99d8876f08"><td class="memSeparator" colspan="2">&#160;</td></tr>
@@ -209,6 +212,12 @@ void&#160;</td><td class="memItemRight" valign="bottom"><b>InitOutChain</b> ()</
 <tr class="memitem:a975fef64ca7609183bc78a315d48e117" id="r_a975fef64ca7609183bc78a315d48e117"><td class="memItemLeft" align="right" valign="top"><a id="a975fef64ca7609183bc78a315d48e117" name="a975fef64ca7609183bc78a315d48e117"></a>
 void&#160;</td><td class="memItemRight" valign="bottom"><b>InitTasks</b> ()</td></tr>
 <tr class="separator:a975fef64ca7609183bc78a315d48e117"><td class="memSeparator" colspan="2">&#160;</td></tr>
+<tr class="memitem:adc79ecbd91584ab3ba2f791897985d30" id="r_adc79ecbd91584ab3ba2f791897985d30"><td class="memItemLeft" align="right" valign="top"><a id="adc79ecbd91584ab3ba2f791897985d30" name="adc79ecbd91584ab3ba2f791897985d30"></a>
+void&#160;</td><td class="memItemRight" valign="bottom"><b>WriteCommitInfo</b> ()</td></tr>
+<tr class="separator:adc79ecbd91584ab3ba2f791897985d30"><td class="memSeparator" colspan="2">&#160;</td></tr>
+<tr class="memitem:a49cdcb94ced17d4f3d6c68cda7001daf" id="r_a49cdcb94ced17d4f3d6c68cda7001daf"><td class="memItemLeft" align="right" valign="top"><a id="a49cdcb94ced17d4f3d6c68cda7001daf" name="a49cdcb94ced17d4f3d6c68cda7001daf"></a>
+void&#160;</td><td class="memItemRight" valign="bottom"><b>PrintCommitInfo</b> ()</td></tr>
+<tr class="separator:a49cdcb94ced17d4f3d6c68cda7001daf"><td class="memSeparator" colspan="2">&#160;</td></tr>
 <tr class="memitem:a7c827c2cc78b9d9e571136732c6d5186" id="r_a7c827c2cc78b9d9e571136732c6d5186"><td class="memItemLeft" align="right" valign="top"><a id="a7c827c2cc78b9d9e571136732c6d5186" name="a7c827c2cc78b9d9e571136732c6d5186"></a>
 &#160;</td><td class="memItemRight" valign="bottom"><b>ClassDef</b> (<a class="el" href="../../d2/d83/classAnalysisTree_1_1TaskManager.html">TaskManager</a>, 0)</td></tr>
 <tr class="separator:a7c827c2cc78b9d9e571136732c6d5186"><td class="memSeparator" colspan="2">&#160;</td></tr>
@@ -262,6 +271,9 @@ bool&#160;</td><td class="memItemRight" valign="bottom"><b>read_in_tree_</b> {fa
 <tr class="memitem:a068a3824f4280e1f92bd4a595c61384b" id="r_a068a3824f4280e1f92bd4a595c61384b"><td class="memItemLeft" align="right" valign="top"><a id="a068a3824f4280e1f92bd4a595c61384b" name="a068a3824f4280e1f92bd4a595c61384b"></a>
 bool&#160;</td><td class="memItemRight" valign="bottom"><b>is_owns_tasks_</b> {true}</td></tr>
 <tr class="separator:a068a3824f4280e1f92bd4a595c61384b"><td class="memSeparator" colspan="2">&#160;</td></tr>
+<tr class="memitem:a680c3140fb074982be7d4a4c5d0e12c7" id="r_a680c3140fb074982be7d4a4c5d0e12c7"><td class="memItemLeft" align="right" valign="top"><a id="a680c3140fb074982be7d4a4c5d0e12c7" name="a680c3140fb074982be7d4a4c5d0e12c7"></a>
+bool&#160;</td><td class="memItemRight" valign="bottom"><b>is_write_hash_info_</b> {true}</td></tr>
+<tr class="separator:a680c3140fb074982be7d4a4c5d0e12c7"><td class="memSeparator" colspan="2">&#160;</td></tr>
 </table><table class="memberdecls">
 <tr class="heading"><td colspan="2"><h2 class="groupheader"><a id="pro-static-attribs" name="pro-static-attribs"></a>
 Static Protected Attributes</h2></td></tr>
